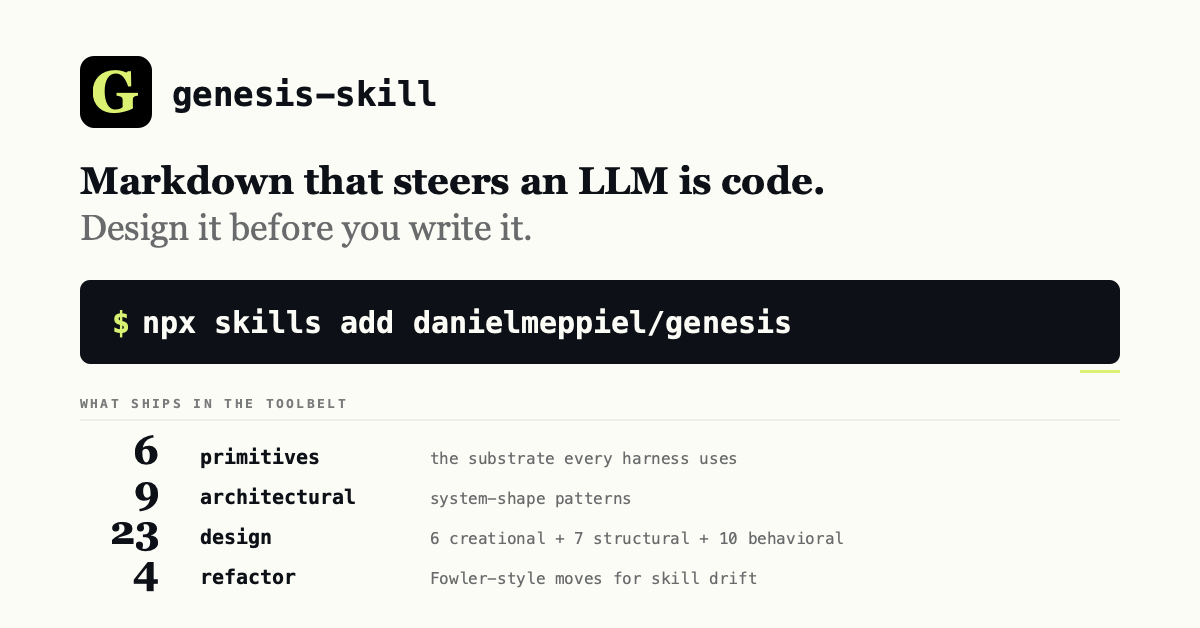
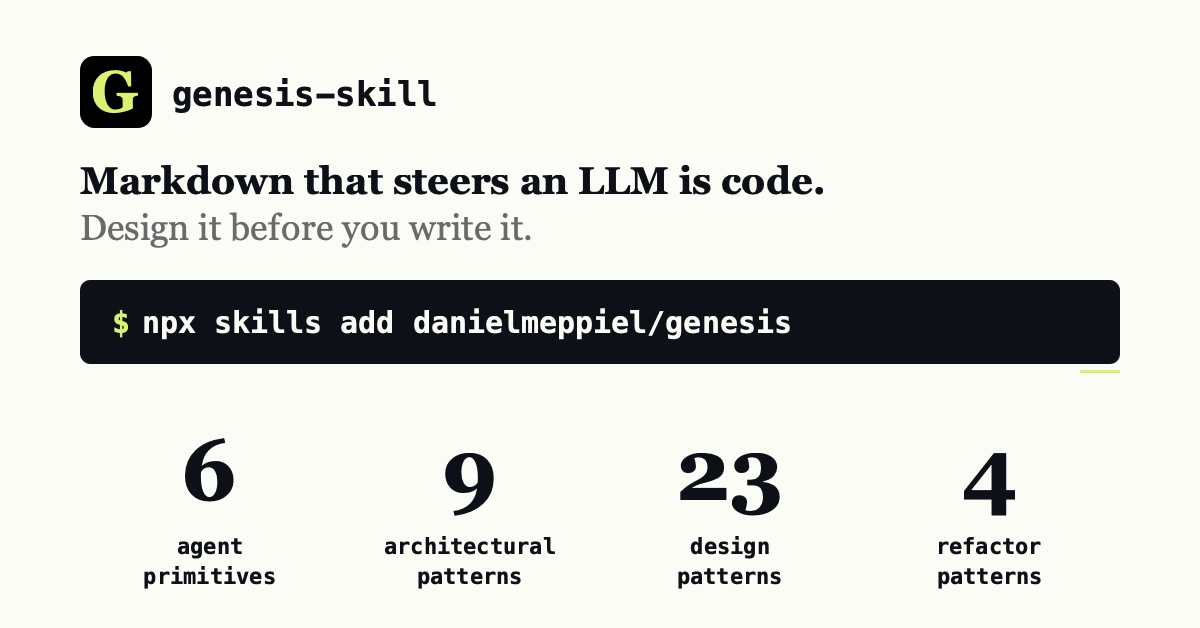
launch: simplify hero toolbelt to a horizontal stat block
Drop the section header ("WHAT SHIPS IN THE TOOLBELT"), the divider
rule, and the per-row descriptors. Replace the 4-row stratified layout
with a 4-column stat block: large serif numeral on top, two-line
monospace name underneath.

Names normalized for clarity:
  primitives    -> agent primitives
  architectural -> architectural patterns
  design        -> design patterns
  refactor      -> refactor patterns

Less bloat, faster scan, name self-explains the metric.

diff --git a/assets/branding/launch/README.md b/assets/branding/launch/README.md
@@ -13,7 +13,7 @@ Three-band composition tuned for LinkedIn feed scanning:
 
 1. **Identity band** -- logomark + wordmark + two-line tagline (the README H1).
 2. **Install band** -- the `npx skills add danielmeppiel/genesis` command rendered as a real terminal panel. The CTA is the centerpiece.
-3. **Toolbelt band** -- four tiered rows showing the catalogue: 6 primitives, 9 architectural patterns, 23 design patterns, 4 refactor moves. Serif numerals give the column its visual rhythm.
+3. **Toolbelt** -- four-column stat block (number + two-line name) showing the catalogue: 6 agent primitives, 9 architectural patterns, 23 design patterns, 4 refactor patterns. Serif numerals are the eye-catchers; monospace names anchor them. No header, no descriptors -- the layout is self-explanatory.
 
 ## palette and type
 